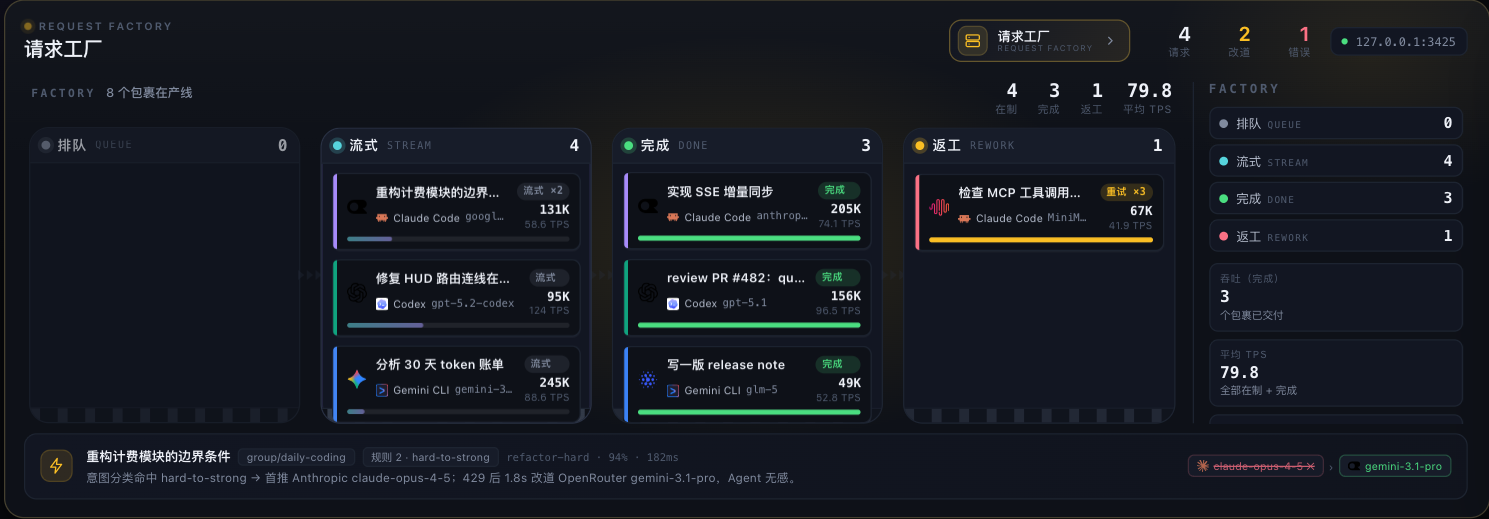
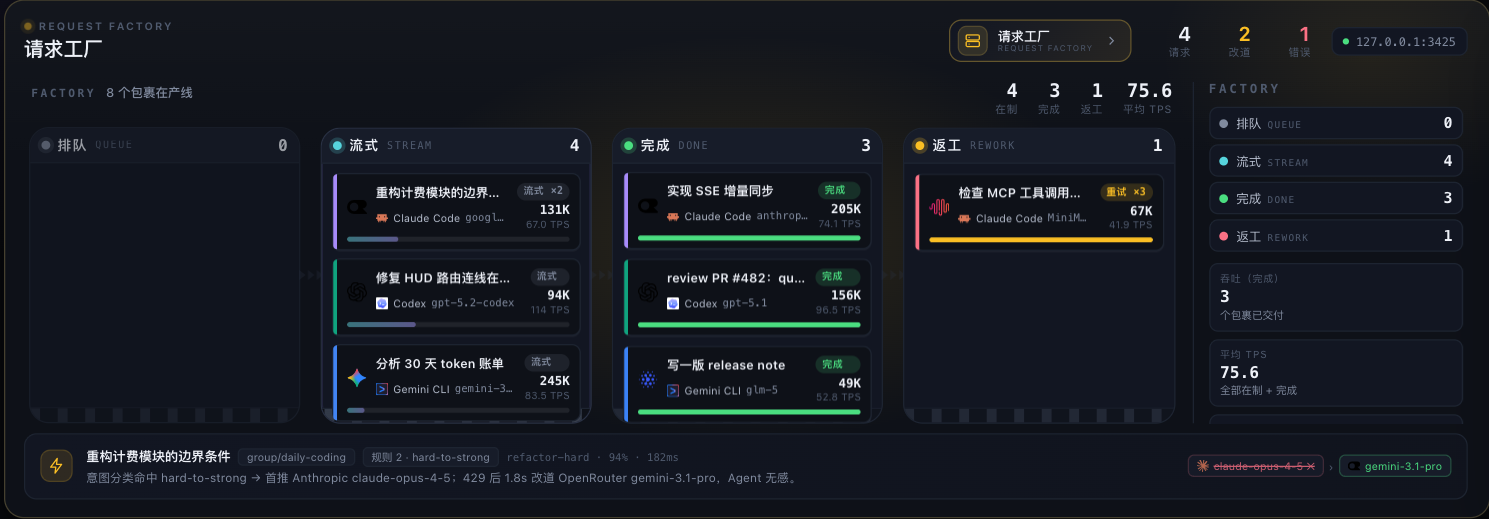
release: Magpie Observatory v0.14.0

diff --git a/public/assets/app.js b/public/assets/app.js
@@ -151,13 +151,21 @@
   function openViewMenu() {
     const menu = $("#view-menu"), picker = $("#view-picker");
     if (!menu || !picker || !menu.hidden) return;
+    const styleMenu = $("#style-menu"), settings = $("#settings-menu");
+    if (styleMenu) styleMenu.hidden = true;
+    if (settings) settings.hidden = true;
     menu.hidden = false;
     picker.setAttribute("aria-expanded", "true");
     const search = $("#view-search");
     if (search) search.value = "";
     filterViewMenu("");
     positionViewMenu();
-    setTimeout(() => { const s = $("#view-search"); if (s) s.focus(); }, 30);
+    setTimeout(() => {
+      const active = $(".view-menu .vm-item.active");
+      if (active) active.scrollIntoView({ block: "nearest" });
+      const s = $("#view-search");
+      if (s) s.focus();
+    }, 30);
   }
 
   function closeViewMenu(focus) {
@@ -1245,7 +1253,7 @@
       </div>
       <div class="session-meta"><span class="session-model">${esc(s.model)}</span><span class="session-route">→ ${s.group === "最近完成" ? "最近完成" : "group/" + esc(s.group || "direct")}</span></div>
       <div class="session-bottom">
-        <span><b>${fmtTokens(s.tokens)}</b> TOK</span>
+        <span><b>${s.tokens ? fmtTokens(s.tokens) : "—"}</b> TOK</span>
         <span>${fmtAge(age)}</span>
         ${s.fallbacks ? `<span class="chip amber">${s.fallbacks} 改道</span>` : ""}
         <span class="tps ${tpsClass(s.tps)}">${tps}</span>
@@ -1558,7 +1566,7 @@
   ];
 
   function demoTick() {
-    if (state.paused || state.mode !== "demo" || window.__OBS_FREEZE) return;
+    if (state.paused || state.mode !== "demo" || window.__OBS_FREEZE || document.hidden) return;
     const now = Date.now();
     state.lastTick = now;
     let completed = 0;
@@ -1648,6 +1656,7 @@
     $("#style-toggle").addEventListener("click", (e) => {
       e.stopPropagation();
       const menu = $("#style-menu");
+      closeViewMenu();
       $("#settings-menu").hidden = true;
       menu.hidden = !menu.hidden;
       syncStyleMenu();
@@ -1655,6 +1664,7 @@
     $("#settings-toggle").addEventListener("click", (e) => {
       e.stopPropagation();
       const menu = $("#settings-menu");
+      closeViewMenu();
       $("#style-menu").hidden = true;
       menu.hidden = !menu.hidden;
       syncSettingsMenu();
@@ -1764,6 +1774,22 @@
       items[next].focus();
     });
     $("#vm-random").addEventListener("click", randomView);
+    $("#view-menu").addEventListener("keydown", e => {
+      if (e.key !== "Tab") return;
+      const items = $$("#view-menu button, #view-menu input").filter(el => !el.hidden && el.offsetParent !== null);
+      if (!items.length) return;
+      const first = items[0], last = items[items.length - 1];
+      if (e.shiftKey && document.activeElement === first) { e.preventDefault(); last.focus(); }
+      else if (!e.shiftKey && document.activeElement === last) { e.preventDefault(); first.focus(); }
+    });
+    const ticker = $(".status-item.ticker");
+    if (ticker) ticker.addEventListener("click", () => {
+      state.tickerIndex = (state.tickerIndex || 0) + 1;
+      const el = $("#ticker-text");
+      if (!el) return;
+      el.classList.add("swap");
+      setTimeout(() => { renderTicker(); el.classList.remove("swap"); }, 180);
+    });
 
     $("#trend-seg").addEventListener("click", e => {
       const b = e.target.closest("button[data-metric]");
@@ -1904,6 +1930,7 @@
 
   /* ----------------------------------------------------------------- live --- */
   async function connectLive(silent) {
+    if (silent && document.hidden) return;
     try {
       if (!silent) toast("正在连接 Magpie…");
       const period = state.range === "7d" ? "week" : state.range === "30d" ? "month" : "today";
@@ -2003,7 +2030,7 @@
 
   /* ------------------------------------------------------------------ init --- */
   function init() {
-    try { console.info("%c Magpie Observatory v0.13.0 · twenty-one views · 4 styles · layout settings", "color:#8b7cf6;font-weight:bold"); } catch (_) {}
+    try { console.info("%c Magpie Observatory v0.14.0 · twenty-one views · 4 styles · layout settings", "color:#8b7cf6;font-weight:bold"); } catch (_) {}
     try {
       const hostTheme = new URLSearchParams(location.search).get("hostTheme");
       if (hostTheme === "light" || hostTheme === "dark") {

diff --git a/public/index.html b/public/index.html
@@ -71,7 +71,7 @@
       <button class="nav-item" id="theme-toggle" title="明暗模式"><svg class="icon-moon"><use href="#i-moon"/></svg><svg class="icon-sun"><use href="#i-sun"/></svg><span>明暗</span></button>
       <button class="nav-item" id="style-toggle" title="界面风格"><svg><use href="#i-palette"/></svg><span>风格</span></button>
       <button class="nav-item" id="settings-toggle" title="布局与动效"><svg><use href="#i-settings"/></svg><span>设置</span></button>
-      <div class="rail-version">v0.13.0 <i></i> plugin</div>
+      <div class="rail-version">v0.14.0 <i></i> plugin</div>
     </div>
   </aside>
 
@@ -267,7 +267,7 @@
     <footer class="statusbar">
       <div class="status-left">
         <span class="status-item"><span class="status-dot ok"></span>网关在线</span>
-        <span class="status-item ticker"><span class="ticker-dot"></span><span id="ticker-text">缓存 —</span></span>
+        <span class="status-item ticker" title="点击换一条"><span class="ticker-dot"></span><span id="ticker-text" aria-live="polite">缓存 —</span></span>
         <span class="status-item"><svg><use href="#i-db"/></svg><span id="status-events">0 条事件</span></span>
       </div>
       <div class="status-right">

diff --git a/public/assets/data.js b/public/assets/data.js
@@ -501,6 +501,23 @@
         cost: r.cost || 0
       };
     });
+    // The ledger is the only place with per-request tokens; fold it back onto
+    // the route sessions so active cards do not show a misleading 0 TOK.
+    const sessionTotals = new Map();
+    logs.forEach(l => {
+      if (!l.session || l.session === "—") return;
+      const t = sessionTotals.get(l.session) || { tokens: 0, tps: 0, n: 0 };
+      t.tokens += l.tokens || 0;
+      if (l.tps > 0) { t.tps += l.tps; t.n++; }
+      sessionTotals.set(l.session, t);
+    });
+    sessions.forEach(s => {
+      const t = sessionTotals.get(s.id);
+      if (!t) return;
+      s.tokens = t.tokens;
+      s.tps = t.n ? t.tps / t.n : 0;
+    });
+
     let heatmap = ((raw.heatmap && raw.heatmap.days) || []).map(d => ({
       date: d.date, tokens: d.tokens || 0, calls: d.calls || 0
     }));

diff --git a/public/assets/views/funnel.css b/public/assets/views/funnel.css
@@ -8,8 +8,10 @@
   inset: 0;
   display: grid;
   grid-template-columns: minmax(0, 1fr) 236px;
+  grid-template-rows: minmax(0, 1fr);
   gap: 14px;
   min-height: 0;
+  overflow: hidden;
   color: var(--fg);
   --funnel-anim: .5s;
   --funnel-rail: 132px;
@@ -190,6 +192,8 @@
   min-height: 0;
   padding-left: 14px;
   border-left: 1px solid var(--line);
+  overflow-y: auto;
+  scrollbar-gutter: stable;
 }
 .funnel-side-title {
   flex: none;

diff --git a/public/assets/app.css b/public/assets/app.css
@@ -1136,7 +1136,7 @@ img { display: block; }
   .qp-id b { font-size: 8px; }
   .qp-id small { display: none; }
   .qp-left small { display: none; }
-  .qp-side { flex-direction: column; }
+  .qp-side { flex-direction: column; flex-wrap: nowrap; }
   .qp-list { flex-direction: column; overflow-x: hidden; }
   .qp-item { min-width: 0; }
   .qp-legend-note { display: none; }

diff --git a/docs/publishing.md b/docs/publishing.md
@@ -94,7 +94,7 @@ The script:
 2. initializes `main` if needed, commits the working tree;
 3. creates the public repository if it does not exist, otherwise pushes;
 4. adds all store topics with `gh repo edit --add-topic`;
-5. creates the annotated tag `v0.13.0` and pushes it.
+5. creates the annotated tag `v0.14.0` and pushes it.
 
 Manual equivalent:
 
@@ -103,7 +103,7 @@ git init -b main
 git config user.name "JohnWangggg"
 git config user.email "JohnWangggg@users.noreply.github.com"
 git add -A
-git commit -m "release: Magpie Observatory v0.13.0"
+git commit -m "release: Magpie Observatory v0.14.0"
 gh repo create JohnWangggg/magpie-observatory --public --source=. --remote=origin --push
 gh api --method PUT repos/JohnWangggg/magpie-observatory/topics \
   -f 'names[]=magpie-plugin' \
@@ -113,7 +113,7 @@ gh api --method PUT repos/JohnWangggg/magpie-observatory/topics \
   -f 'names[]=dashboard' \
   -f 'names[]=monitoring' \
   -f 'names[]=llm-gateway'
-git tag -a v0.13.0 -m "Magpie Observatory v0.13.0"
+git tag -a v0.14.0 -m "Magpie Observatory v0.14.0"
 git push -u origin main --tags
 ```
 
@@ -138,12 +138,12 @@ under **Plugins → Installed** with an **Observatory** tab.
 Release tags are annotated and match `package.json`:
 
 ```bash
-git tag -a v0.13.0 -m "Magpie Observatory v0.13.0"
-git push origin v0.13.0
+git tag -a v0.14.0 -m "Magpie Observatory v0.14.0"
+git push origin v0.14.0
 ```
 
 For the next release, bump `package.json`, update the tag in
-`scripts/publish-github.sh` (or pass `TAG=v0.13.0`), and repeat.
+`scripts/publish-github.sh` (or pass `TAG=v0.14.0`), and repeat.
 
 发布标签使用 annotated tag，并与 `package.json` 版本一致。下一次发布时提升版本号，
-再用 `TAG=v0.13.0 bash scripts/publish-github.sh` 或手动打标签。
+再用 `TAG=v0.14.0 bash scripts/publish-github.sh` 或手动打标签。
